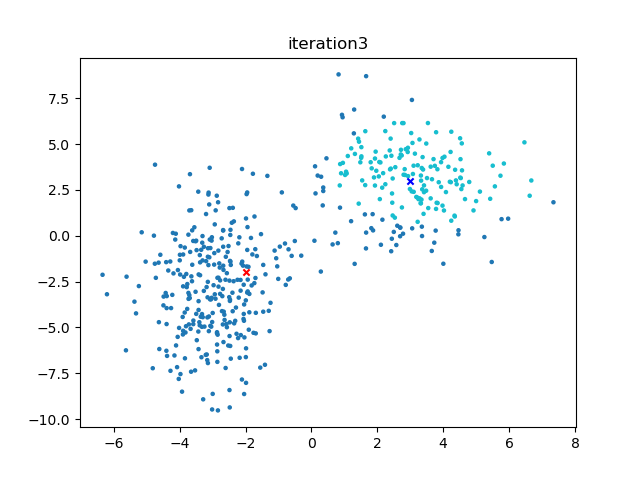
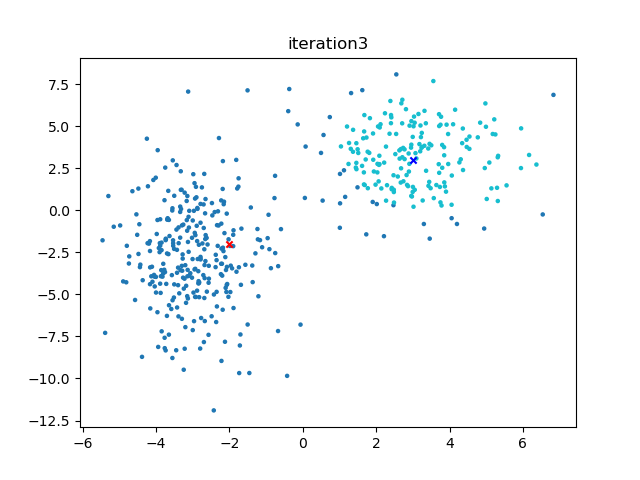
update demo img

diff --git a/em.py b/em.py
@@ -56,7 +56,7 @@ def EM(data_exp, param):
 
         update = check_converge(param, update_param)
         print(
-            "iteration:{:.2f}, update:{:.2f}, mu_1:({:.2f}, {:.2f}), mu_2:({:.2f}, {:.2f}), var_1:({:.2f}, {:.2f}), var_2:({:.2f}, {:.2f}), ".format(
+            "iteration:{:.2f}, update:{:.2f}, mu_1:({:.2f}, {:.2f}), mu_2:({:.2f}, {:.2f}), var_1:({:.2f}, {:.2f}), var_2:({:.2f}, {:.2f}), lambda:({:.2f}, {:.2f})".format(
                 iteration, update,
                 param.mu_1[0],
                 param.mu_1[1],
@@ -66,7 +66,8 @@ def EM(data_exp, param):
                 param.sigma_1[1, 1],
                 param.sigma_2[0, 0],
                 param.sigma_2[1, 1],
-
+                param.lambd[0],
+                param.lambd[1]
             ))
         data_exp = update_data
         param = update_param

diff --git a/README.md b/README.md
@@ -3,22 +3,18 @@
 python implementation of Expectation Maximization Algorithm  
 ## Update parameters
 ```
-ground truth:mu_1:(-3.00, -3.00), mu_2:(3.00, 3.00), var_1:(2.00, 4.50), var_2:(1.00, 8.00)
-iteration:1.00, update:16.36, mu_1:(1.00, 1.00), mu_2:(5.00, 5.00), var_1:(1.00, 1.00), var_2:(1.00, 1.00),  
-iteration:2.00, update:4.41, mu_1:(-1.00, -1.00), mu_2:(3.00, 4.00), var_1:(6.00, 10.00), var_2:(1.00, 2.00),   
-iteration:3.00, update:2.00, mu_1:(-1.00, -2.00), mu_2:(3.00, 3.00), var_1:(5.00, 9.00), var_2:(1.00, 1.00),   
-iteration:4.00, update:2.00, mu_1:(-2.00, -2.00), mu_2:(3.00, 3.00), var_1:(4.00, 9.00), var_2:(1.00, 1.00),   
-iteration:5.00, update:3.24, mu_1:(-2.00, -2.00), mu_2:(3.00, 3.00), var_1:(3.00, 9.00), var_2:(1.00, 2.00),   
-iteration:6.00, update:2.00, mu_1:(-2.00, -2.00), mu_2:(3.00, 3.00), var_1:(1.00, 8.00), var_2:(1.00, 3.00),   
-iteration:7.00, update:1.00, mu_1:(-2.00, -2.00), mu_2:(3.00, 2.00), var_1:(1.00, 7.00), var_2:(1.00, 3.00),   
-iteration:8.00, update:1.00, mu_1:(-2.00, -2.00), mu_2:(2.00, 2.00), var_1:(1.00, 7.00), var_2:(1.00, 3.00),   
-iteration:9.00, update:0.00, mu_1:(-2.00, -2.00), mu_2:(2.00, 2.00), var_1:(1.00, 7.00), var_2:(2.00, 3.00),   
+ground truth:mu_1:(-3.00, -3.00), mu_2:(3.00, 3.00), var_1:(1.00, 8.00), var_2:(2.00, 4.50), lambda:(0.6, 0.4)
+iteration:1.00, update:17.24, mu_1:(1.00, 1.00), mu_2:(5.00, 5.00), var_1:(1.00, 1.00), var_2:(1.00, 1.00), lambda:(0.70, 0.30)
+iteration:2.00, update:2.41, mu_1:(-1.00, -1.00), mu_2:(3.00, 4.00), var_1:(6.00, 11.00), var_2:(1.00, 2.00), lambda:(0.81, 0.19)
+iteration:3.00, update:3.41, mu_1:(-1.00, -1.00), mu_2:(3.00, 3.00), var_1:(5.00, 10.00), var_2:(1.00, 2.00), lambda:(0.73, 0.27)
+iteration:4.00, update:3.24, mu_1:(-2.00, -2.00), mu_2:(3.00, 3.00), var_1:(3.00, 10.00), var_2:(1.00, 2.00), lambda:(0.66, 0.34)
+iteration:5.00, update:0.00, mu_1:(-2.00, -2.00), mu_2:(3.00, 3.00), var_1:(1.00, 9.00), var_2:(1.00, 3.00), lambda:(0.62, 0.38)
 ```
 ## Result
 
 <p float="left">
   <img src="result/ground_truth.png" width="470" />
-  <img src="result/iteration9.png" width="470" />
+  <img src="result/iteration5.png" width="470" />
 </p>
 
 ## reference:
